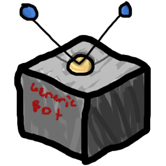
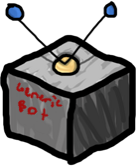
Fixed mob rendering.

diff --git a/src/game/Mob.java b/src/game/Mob.java
@@ -22,15 +22,15 @@ public class Mob extends Entity{
     final int imgYOffset;
     PolygonShape shape;
 	Polygon pixShape;
-	//Rectangle rectangle;
-	BufferedImage genericMob;
+	Rectangle rectangle;
+	Image genericMob;
     int health = DEFAULT_HEALTH;
     int numOfSpacesMobCanMove;
     
     Mob(World world, BodyDef bd, FixtureDef fd, PolygonShape shape, float gridScale){
         
         try {
-            genericMob = ImageIO.read(new File(Consts.IMG_GENROBO));
+            genericMob = ImageIO.read(new File(Consts.IMG_GENROBO)).getScaledInstance(80, 98, Image.SCALE_DEFAULT);
         } catch (IOException e1) {
             e1.printStackTrace();
         }
@@ -52,12 +52,12 @@ public class Mob extends Entity{
             yAry[i] = (int)(Utils.toPixY(shape.m_vertices[i].y + bd.position.y) + .5f);
         }
         pixShape = new Polygon(xAry, yAry, shape.m_count);
-        //rectangle = pixShape.getBounds();
+        rectangle = pixShape.getBounds();
         pixX = Utils.toPixX(body.getPosition().x);
         pixY = Utils.toPixY(body.getPosition().y);
         
         imgXOffset = genericMob.getWidth(null)/2;
-        imgYOffset = genericMob.getHeight(null);
+        imgYOffset = genericMob.getHeight(null)-rectangle.height/2;
     }
     
     public void setHealth(int health){

diff --git a/src/game/CreateLevel.java b/src/game/CreateLevel.java
@@ -23,7 +23,7 @@ public class CreateLevel implements LevelFactory {
     public static final float WALL_FRICTION = 0.1f;
     public static final float MOB_FRICTION = 0.1f;
     public static final float GRID_SIZE = 4f;
-    public static final float MOB_SIZE = 4f;
+    public static final float HALF_MOB_SIZE = 2f;
     
     public static final Vec2 BALL_CENTER = new Vec2(4,76);
     public static final Vec2 HOLE_POSITION = new Vec2(4,96);
@@ -40,13 +40,13 @@ public class CreateLevel implements LevelFactory {
         Ball ball = createBall(world);
         
         Mob mob;
-        mob = createMob(world, 20,76,MOB_SIZE,MOB_SIZE);
+        mob = createMob(world, 20,76,HALF_MOB_SIZE,HALF_MOB_SIZE);
         mob.setHealth(1);
         mobList.add(mob);
-        mob = createMob(world, 8,88,MOB_SIZE,MOB_SIZE);
+        mob = createMob(world, 8,88,HALF_MOB_SIZE,HALF_MOB_SIZE);
         mob.setHealth(3);
         mobList.add(mob);
-        mob = createMob(world, 32,92,MOB_SIZE,MOB_SIZE);
+        mob = createMob(world, 32,92,HALF_MOB_SIZE,HALF_MOB_SIZE);
         mob.setHealth(2);
         mobList.add(mob);
         
